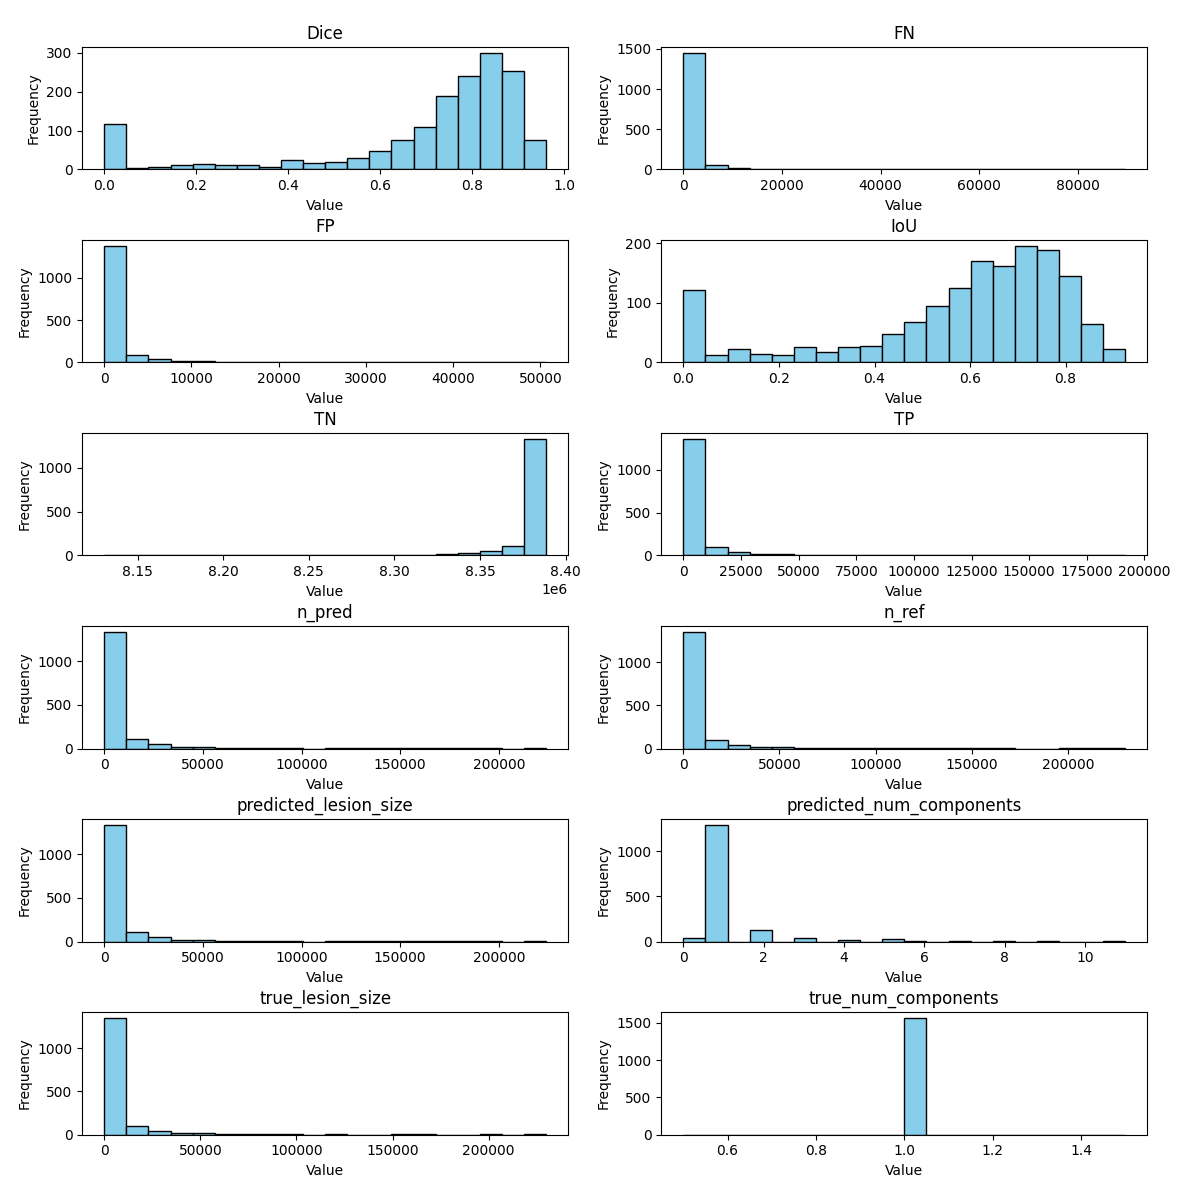
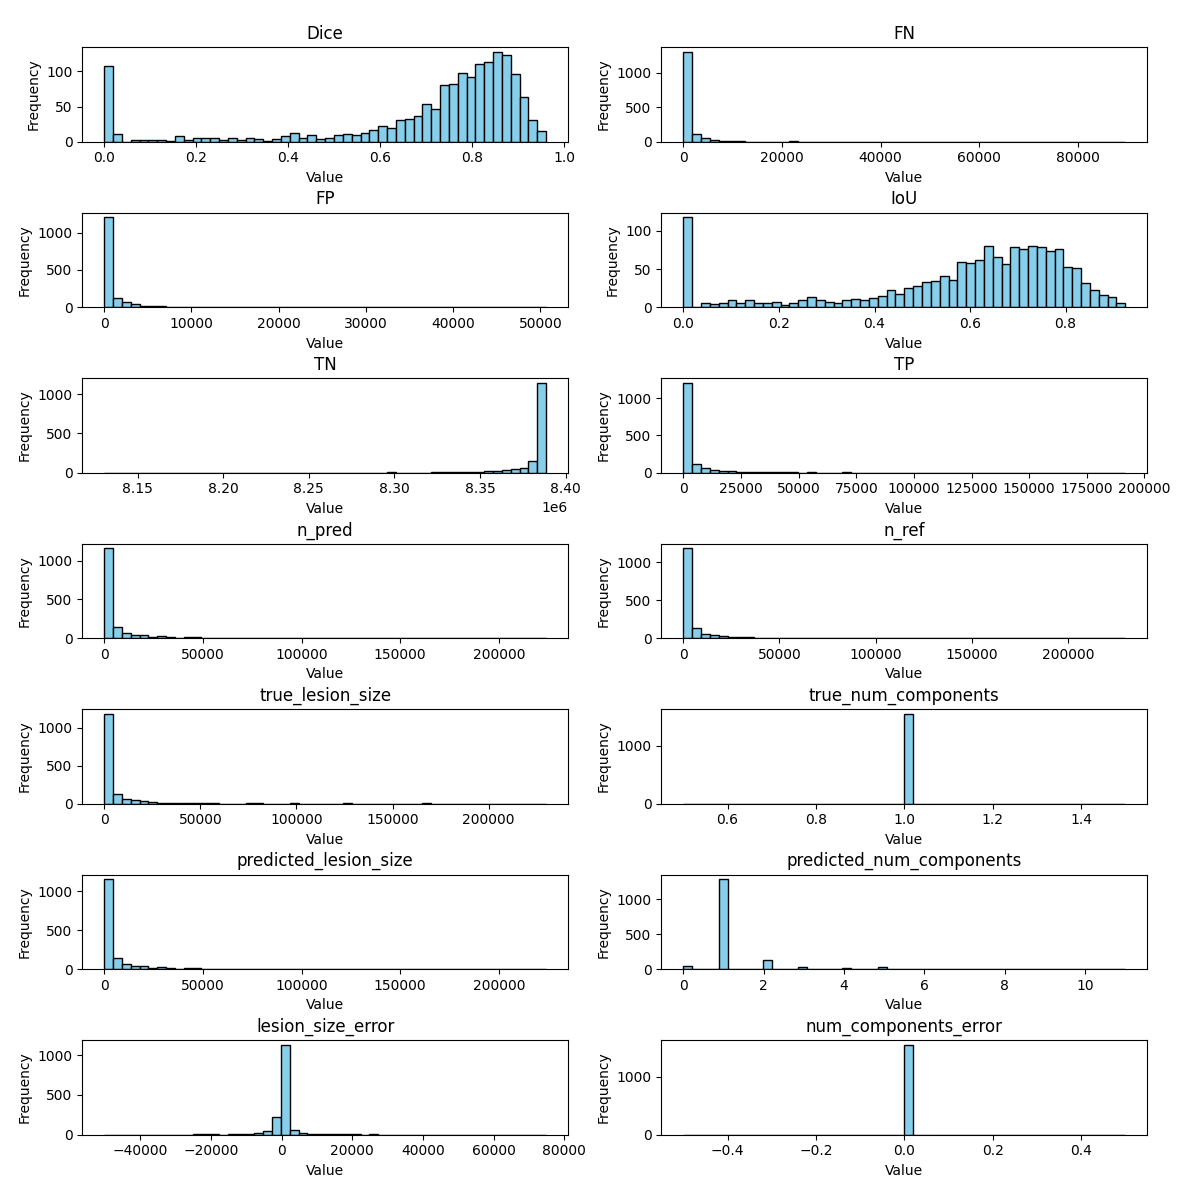
added errors to table and additonal plots

diff --git a/analysis/figures.py b/analysis/figures.py
@@ -1,7 +1,8 @@
 import os
 import matplotlib.pyplot as plt
+import numpy as np
 
-def plot_histograms(df, columns_to_plot, save_dir, split_column='Dice', threshold=0):
+def plot_histograms_two_groups(df, columns_to_plot, save_dir, split_column='Dice', threshold=0):
     # Create the directory if it doesn't exist
     if not os.path.exists(save_dir):
         os.makedirs(save_dir)
@@ -22,14 +23,14 @@ def plot_histograms(df, columns_to_plot, save_dir, split_column='Dice', threshol
     for i, column in enumerate(columns_to_plot):
         # Plot for the low group
         ax_low = axes[i, 0]
-        ax_low.hist(df_low[column], bins=20, color='red', edgecolor='black', alpha=0.5)
+        ax_low.hist(df_low[column], bins=50, color='red', edgecolor='black', alpha=0.5)
         ax_low.set_title(f'{column} (<= {threshold})')
         ax_low.set_xlabel('Value')
         ax_low.set_ylabel('Frequency')
 
         # Plot for the high group
         ax_high = axes[i, 1]
-        ax_high.hist(df_high[column], bins=20, color='blue', edgecolor='black', alpha=0.5)
+        ax_high.hist(df_high[column], bins=50, color='blue', edgecolor='black', alpha=0.5)
         ax_high.set_title(f'{column} (> {threshold})')
         ax_high.set_xlabel('Value')
         ax_high.set_ylabel('Frequency')
@@ -40,6 +41,38 @@ def plot_histograms(df, columns_to_plot, save_dir, split_column='Dice', threshol
     
     # Close the plot to free memory
     plt.close(fig)
+
+
+def plot_histograms(df, columns_to_plot, save_dir):
+    # Create the directory if it doesn't exist
+    if not os.path.exists(save_dir):
+        os.makedirs(save_dir)
+
+    # Create subplots for histograms
+    fig_hist, axes_hist = plt.subplots(nrows=len(columns_to_plot) // 2, ncols=2, figsize=(12, 12))
+    fig_hist.tight_layout(pad=3.0)  # Adjust the spacing between subplots
+
+    # Flatten the axes array for easy iteration
+    axes_hist = axes_hist.flatten()
+
+    # Plot histograms for each column
+    for i, column in enumerate(columns_to_plot):
+        ax = axes_hist[i]
+        ax.hist(df[column], bins=50, color='skyblue', edgecolor='black')
+        ax.set_title(column)
+        ax.set_xlabel('Value')
+        ax.set_ylabel('Frequency')
+
+    # Hide any unused subplots
+    for j in range(len(columns_to_plot), len(axes_hist)):
+        axes_hist[j].axis('off')
+
+    # Save the histograms
+    file_path = os.path.join(save_dir, f'column_histogram.png')
+    fig_hist.savefig(file_path)
+
+    # Close the histogram plot to free memory
+    plt.close(fig_hist)
 
 def plot_scatterplots(df, scatterplot_tuples, save_dir, split_column='Dice', threshold=0):
     # Create the directory if it doesn't exist
@@ -52,8 +85,13 @@ def plot_scatterplots(df, scatterplot_tuples, save_dir, split_column='Dice', thr
 
     # Create subplots for scatterplots
     num_plots = len(scatterplot_tuples)
-    num_rows = (num_plots + 1) // 2  # Round up for odd numbers of plots
-    fig, axes = plt.subplots(nrows=num_rows, ncols=2, figsize=(12, num_rows * 6))
+    if num_plots == 1:
+        fig, axes = plt.subplots(nrows=1, ncols=1, figsize=(7.5, 6))
+        axes = np.array([axes])  # Make it iterable
+    else:
+        num_rows = (num_plots + 1) // 2  # Round up for odd numbers of plots
+        fig, axes = plt.subplots(nrows=num_rows, ncols=2, figsize=(12, num_rows * 6))
+        axes = axes.flatten()  # Flatten the axes array for easy iteration
 
     # Flatten the axes array for easy iteration
     axes = axes.flatten()
@@ -80,11 +118,3 @@ def plot_scatterplots(df, scatterplot_tuples, save_dir, split_column='Dice', thr
 
     # Close the plot to free memory
     plt.close(fig)
-
-# Example usage
-# Define the directory to save the images
-save_directory = 'images'
-
-# Define the scatterplot tuples
-scatterplot_tuples = [('Dice', 'predicted_lesion_size'), 
-                      ('Dice', 'true_num_components')]

diff --git a/analysis/make_table.py b/analysis/make_table.py
@@ -69,10 +69,12 @@ for data_point in data['metric_per_case']:
     metrics['case_name'] = case_name
     
     # Add the predicted and true lesion sizes and number of connected components to the metrics dictionary
-    metrics['predicted_lesion_size'] = predicted_lesion_data.get(case_name, {}).get('lesion_size', 0)
-    metrics['predicted_num_components'] = predicted_lesion_data.get(case_name, {}).get('num_components', 0)
     metrics['true_lesion_size'] = true_lesion_data.get(case_name, {}).get('lesion_size', 0)
     metrics['true_num_components'] = true_lesion_data.get(case_name, {}).get('num_components', 0)
+    metrics['predicted_lesion_size'] = predicted_lesion_data.get(case_name, {}).get('lesion_size', 0)
+    metrics['predicted_num_components'] = predicted_lesion_data.get(case_name, {}).get('num_components', 0)
+    metrics['lesion_size_error'] = (metrics['true_lesion_size'] - metrics['predicted_lesion_size'])
+    metrics['num_components_error'] = (metrics['true_num_components'] - metrics['true_num_components'])
     
     # Append the metrics dictionary to the list
     metrics_list.append(metrics)

diff --git a/analysis/analysis.py b/analysis/analysis.py
@@ -6,7 +6,7 @@ from tqdm import tqdm
 import SimpleITK as sitk
 import pandas as pd
 
-from figures import plot_histograms, plot_scatterplots
+from figures import plot_histograms, plot_scatterplots, plot_histograms_two_groups
 
 # Define the paths to the source directories
 images_source_dir = 'data/Dataset001_ULS/imagesTr/'
@@ -28,5 +28,9 @@ columns_to_plot = [col for col in df.columns if col != 'case_name']
 # Define the directory to save the images
 save_directory = 'images'
 
-# plot_scatterplots(df, [('true_lesion_size', 'predicted_num_components')], save_directory)
-plot_histograms(df, ['predicted_lesion_size', 'predicted_num_components', 'true_lesion_size', 'true_num_components'], save_directory)
+plot_scatterplots(df, [('predicted_lesion_size', 'true_lesion_size')], save_directory)
+# plot_histograms(df, columns_to_plot, save_directory)
+
+# plot_histograms_two_groups(df, ['true_lesion_size', 'true_num_components',
+#                                 'predicted_lesion_size', 'predicted_num_components',
+#                                 'lesion_size_error', 'num_components_error'], save_directory)
